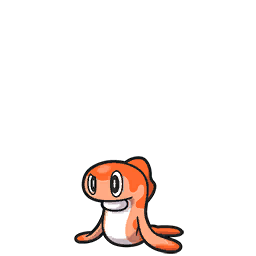
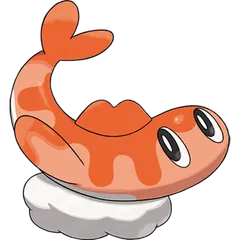
add tatsugiri

diff --git a/006-pgo/pgotypes.cpp b/006-pgo/pgotypes.cpp
@@ -1369,6 +1369,16 @@ static const attack* FLAPPLE_ATKS[] = {
   NULL
 };
 
+static const attack* TATSUGIRI_ATKS[] = {
+  &ATK_Take_Down,
+  &ATK_Water_Gun,
+  &ATK_Outrage,
+  &ATK_Surf,
+  &ATK_Hydro_Pump,
+  &ATK_Muddy_Water,
+  NULL
+};
+
 static const attack* DRAMPA_ATKS[] = {
   &ATK_Dragon_Breath,
   &ATK_Extrasensory,
@@ -12182,6 +12192,8 @@ static const species sdex[] = {
   {  972, "Houndstone", TYPE_GHOST, TYPECOUNT, 186, 195, 176, "Greavard", HOUNDSTONE_ATKS, false, false, {}, species::CAT_NORMAL, 50, },
   {  974, "Cetoddle", TYPE_ICE, TYPECOUNT, 119, 80, 239, NULL, CETODDLE_ATKS, true, false, {}, species::CAT_NORMAL, 50, },
   {  975, "Cetitan", TYPE_ICE, TYPECOUNT, 208, 123, 347, "Cetoddle", CETITAN_ATKS, true, false, {}, species::CAT_NORMAL, 50, },
+  // released 2025-07-03
+  {  978, "Tatsugiri", TYPE_DRAGON, TYPE_WATER, 226, 166, 169, NULL, TATSUGIRI_ATKS, false, false, {}, species::CAT_NORMAL, -1},
   {  979, "Annihilape", TYPE_FIGHTING, TYPE_GHOST, 220, 178, 242, "Primeape", ANNIHILAPE_ATKS, true, true,
     { &ATK_Rage_Fist, }, species::CAT_NORMAL, 50, },
   {  980, "Clodsire", TYPE_POISON, TYPE_GROUND, 127, 151, 277, "Paldean Wooper", CLODSIRE_ATKS, true, false,

diff --git a/006-pgo/trainer.tex b/006-pgo/trainer.tex
@@ -474,10 +474,10 @@ Pokémon GO is free to download, with optional microtransactions through the in-
 Pokécoins can be used to purchase most items\footnote{Event passes generally require cash,
   as does anything specific to the web store.}, and local currency can purchase Pokécoins.
 Interestingly, the ratio of exchange rates for Pokécoin and USD diverges
-  wildly across regions\footnote{It should be noted that use of e.g. a VPN to purchase Pokécoins remotely is a
-  violation of the TOS\@.}.
-A one-time award of 150 Pokécoins is presented upon reaching Level 7;
-  a humble sum ensuring that Trainers are aware of the game's spending opportunities.
+  wildly across regions\footnote{It should be noted that use of e.g.\ a VPN to purchase Pokécoins remotely is a
+  violation of the ToS\@.}.
+A one-time award of 150 Pokécoins (a humble sum ensuring that Trainers are aware of the game's spending opportunities)
+  is presented upon reaching Level 7.
 More usefully, Pokémon defeated while defending a Gym (\autoref{sec:gyms}) can
   return with Pokécoins.
 The Pokémon receives one Pokécoin for every ten minutes spent in the Gym, and presents these weregild to the Trainer.

diff --git a/006-pgo/pgo.tex b/006-pgo/pgo.tex
@@ -159,9 +159,9 @@ Thanks! {\textbf{{\symbolfont♥} nick}}
   \hypertarget{lot}{}%
   \bookmark[dest=lot]{List of Tables}
   \listoftables*
-  %\hypertarget{lof}{}%
-  %\bookmark[dest=lof]{list of figures} % if we use 3, it changes to i instead of iii [shrug]
-  %\listoffigures*
+  \hypertarget{lof}{}%
+  \bookmark[dest=lof]{list of figures} % if we use 3, it changes to i instead of iii [shrug]
+  \listoffigures*
   \fi
 \booltrue{inspeciesappendex}
 \input{foreward}
